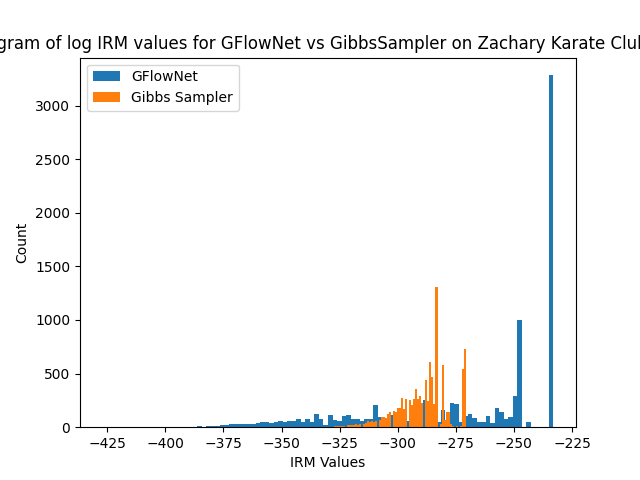
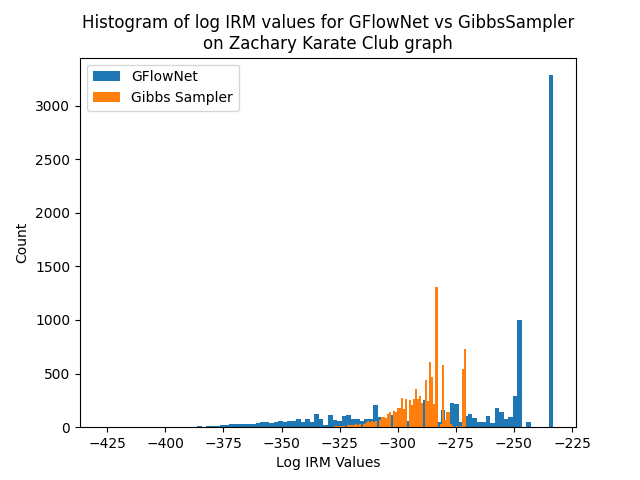
New better histogram

Changed region(s): [[0.0, 0.0312, 1.0, 0.125], [0.4375, 0.9375, 0.5938, 1.0]]

diff --git a/GraphClustering/LargeGraphs/SamplePlot.py b/GraphClustering/LargeGraphs/SamplePlot.py
@@ -5,6 +5,7 @@ import pandas as pd
 import numpy as np
 import torch
 from tqdm import tqdm
+from scipy import stats
 
 
 def compareIRMSamples(tensors: list, nbins=100, names=None, filenameSave='', title=''):
@@ -13,18 +14,21 @@ def compareIRMSamples(tensors: list, nbins=100, names=None, filenameSave='', tit
     # tensorsFlat = torch.concat(tensors, dim=0)
     IRM_lists = []
     sort_idxs = []
-    for name, state_tensor in zip(names, tensors):
+    for name, tensors in zip(names, tensors):
         IRM_list = []
-        for state in state_tensor:
+        for state in tqdm(tensors, desc='States'):
             adj_mat, cluster_mat = net.get_matrices_from_state(state)
             cluster_list, _ = net.get_clustering_list(cluster_mat)
-            IRM_value = int(torch_posterior(adj_mat, cluster_list - 1))
+            if not sum(cluster_list == 0):
+                cluster_list -= 1
+            IRM_value = int(torch_posterior(adj_mat, cluster_list))
             IRM_list.append(IRM_value)
+        IRM_list = np.array(IRM_list)
         sort_idxs.append(np.argsort(IRM_list))
         IRM_list = sorted(IRM_list)
         plt.hist(IRM_list, label=name, bins=nbins)
         IRM_lists.append(IRM_list)
-
+        print(f'For {name} we find \tMean: {np.mean(IRM_list)}\tMode: {stats.mode(IRM_list)}\tMax: {np.max(IRM_list)}')
     plt.ylabel('Count')
     plt.xlabel('Log IRM Values')
     plt.title(title)
@@ -36,8 +40,46 @@ def compareIRMSamples(tensors: list, nbins=100, names=None, filenameSave='', tit
     return IRM_lists, sort_idxs
 
 
+def getTopClusterings(states, n=10, csvFilename=''):  # , plot=False, saveFilename='', title='', nbins=100):
+    def return_0():
+        return 0
+
+    # Use a defaultdict for ease
+    cluster_lists = defaultdict(return_0)
+    IRM_list = []
+    for state in tqdm(states, desc='Counting'):
+        adj_mat, cluster_mat = net.get_matrices_from_state(state)
+        cluster_list, _ = net.get_clustering_list(cluster_mat)
+        if not sum(cluster_list == 0):
+            cluster_list -= 1
+        IRM_value = int(torch_posterior(adj_mat, cluster_list))
+        IRM_list.append(IRM_value)
+        cluster_lists[tuple(cluster_list.detach().numpy())] += 1
+
+    # Put the dictionary values into lists so numpy can sort them
+    clusters = []
+    counts = []
+    for cluster, count in cluster_lists.items():
+        clusters.append(cluster)
+        counts.append(count)
+    sort_idx = np.argsort(counts)
+    top_n = np.array(clusters)[sort_idx[-n:]]
+    if csvFilename: pd.DataFrame(top_n).to_csv(csvFilename)
+    # if plot:
+    #     plt.hist(np.array(counts)[sort_idx], label='Cluster Count', bins=nbins)
+    #     # plt.xlabel('Cluster order')
+    #     plt.ylabel('Counts')
+    #     plt.title(title)
+    #     plt.legend()
+    #     plt.show()
+    #     if saveFilename:
+    #         plt.savefig(saveFilename)
+
+    return top_n
+
+
 if __name__ == '__main__':
-    run_Gibbs = False   # There is a saved run for 10_000 samples in this folder
+    run_Gibbs = False  # There is a saved run for 10_000 samples in this folder
 
     net = GraphNet(n_nodes=34)
     fname = 'Data/KarateResults_100_500_10000_o_Samples_400.pt'
@@ -47,31 +89,17 @@ if __name__ == '__main__':
     Adj_karate = torch.tensor(pd.read_csv("Adj_karate.csv", header=None, dtype=int).to_numpy())
 
     if run_Gibbs:
-        gibbsSamples = Gibbs_sample_torch(torch.tensor(Adj_karate, dtype=torch.float32), T=len(netSamples) * 2, return_clustering_matrix=True)
+        gibbsSamples = Gibbs_sample_torch(torch.tensor(Adj_karate, dtype=torch.float32), T=len(netSamples) * 2,
+                                          return_clustering_matrix=True)
     else:
         gibbsSamples = net.load_samples('GibbsSamples_10000.pt')
     gibbsSamplesPlotable = [torch.concat((Adj_karate.flatten(), gibbsSample.flatten())) for gibbsSample in gibbsSamples]
     torch.save(gibbsSamplesPlotable, 'GibbsSamples_10000.pt')
 
-    def return_0():
-        return 0
-
-    cluster_lists = defaultdict(return_0)
-    IRM_list = []
-    for state in tqdm(netSamples, desc='Counting'):
-        adj_mat, cluster_mat = net.get_matrices_from_state(state)
-        cluster_list, _ = net.get_clustering_list(cluster_mat)
-        IRM_value = int(torch_posterior(adj_mat, cluster_list - 1))
-        IRM_list.append(IRM_value)
-        cluster_lists[tuple(cluster_list.detach().numpy())] += 1
-
-    plt.plot(IRM_list, label='IRM Values')
-    plt.plot(list(cluster_lists.values()), label='Cluster Count')
-    plt.legend()
-    plt.show()
-
-
     I = compareIRMSamples([netSamples, gibbsSamplesPlotable],
                           names=['GFlowNet', 'Gibbs Sampler'],
                           title='Histogram of log IRM values for GFlowNet vs GibbsSampler\non Zachary Karate Club graph',
                           filenameSave='comparisonGraph10000Samples.png')
+
+    topClustersNet = getTopClusterings(netSamples, n=5, csvFilename='TopClusteringsGFlowNet.csv')
+    topClustersGibbs = getTopClusterings(gibbsSamplesPlotable, n=5, csvFilename='TopClusteringsGibbs.csv')

diff --git a/GraphClustering/Core/Core.py b/GraphClustering/Core/Core.py
@@ -4,6 +4,7 @@ import itertools
 import numpy as np
 from tqdm import tqdm
 import torch.nn as nn
+from scipy import stats
 from scipy.special import betaln, gammaln, logsumexp
 from torch.special import gammaln as torch_gammaln
 from torch.distributions import Beta
